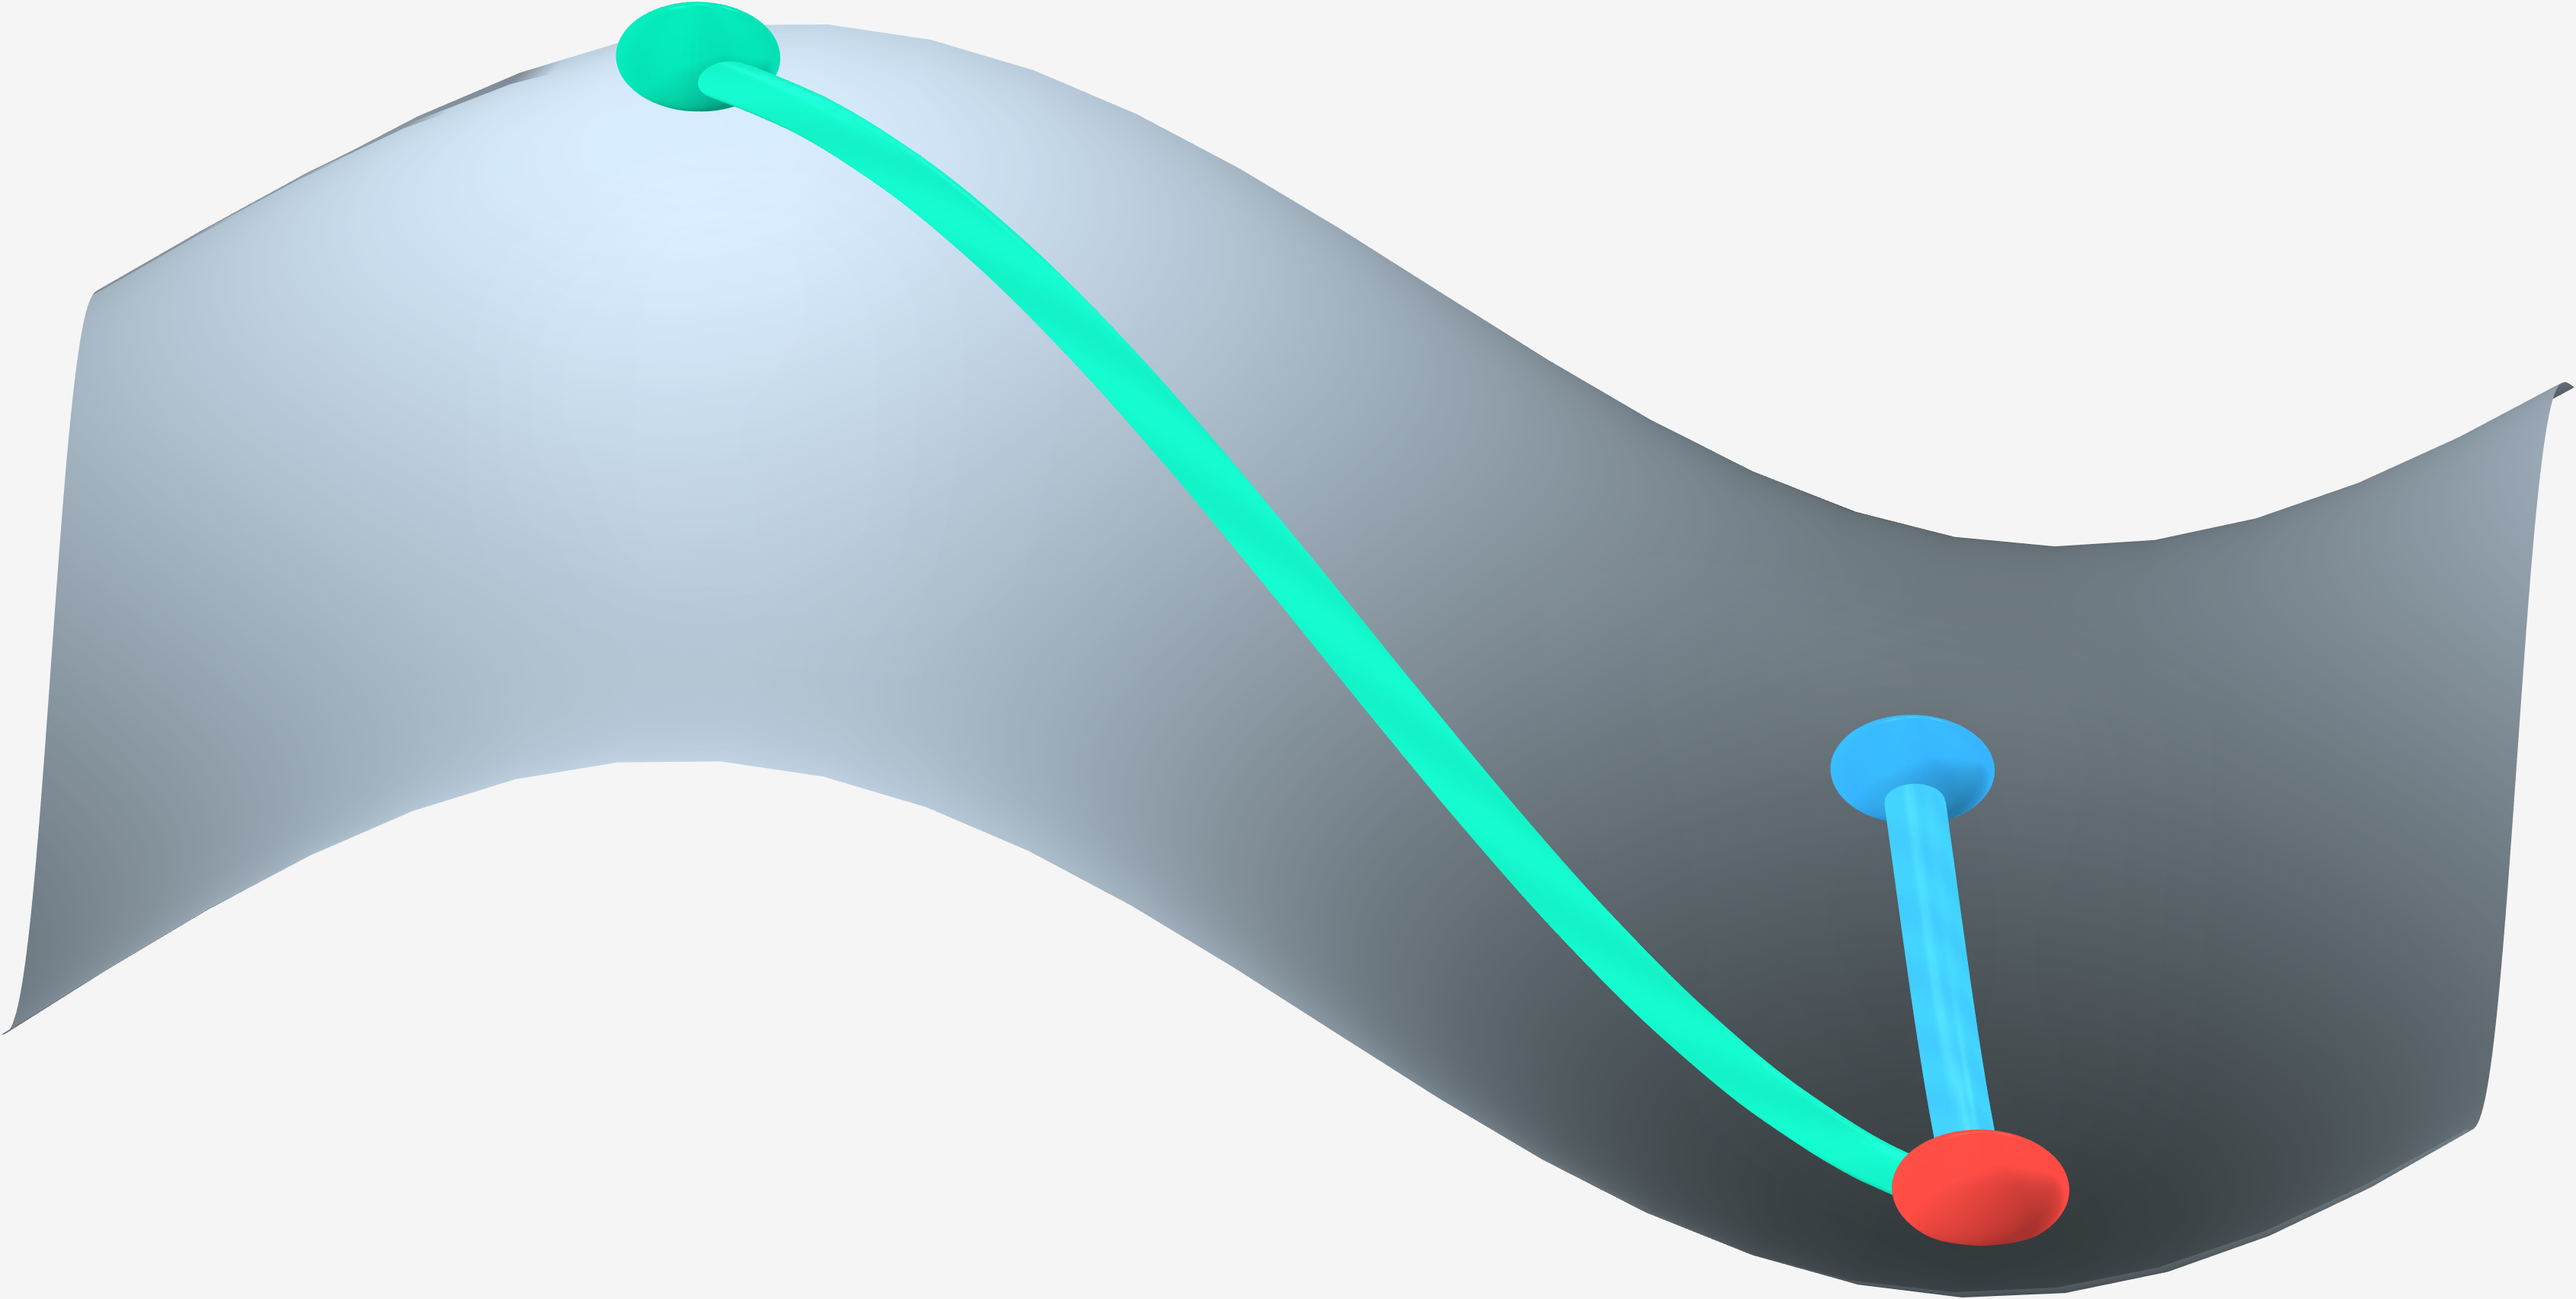
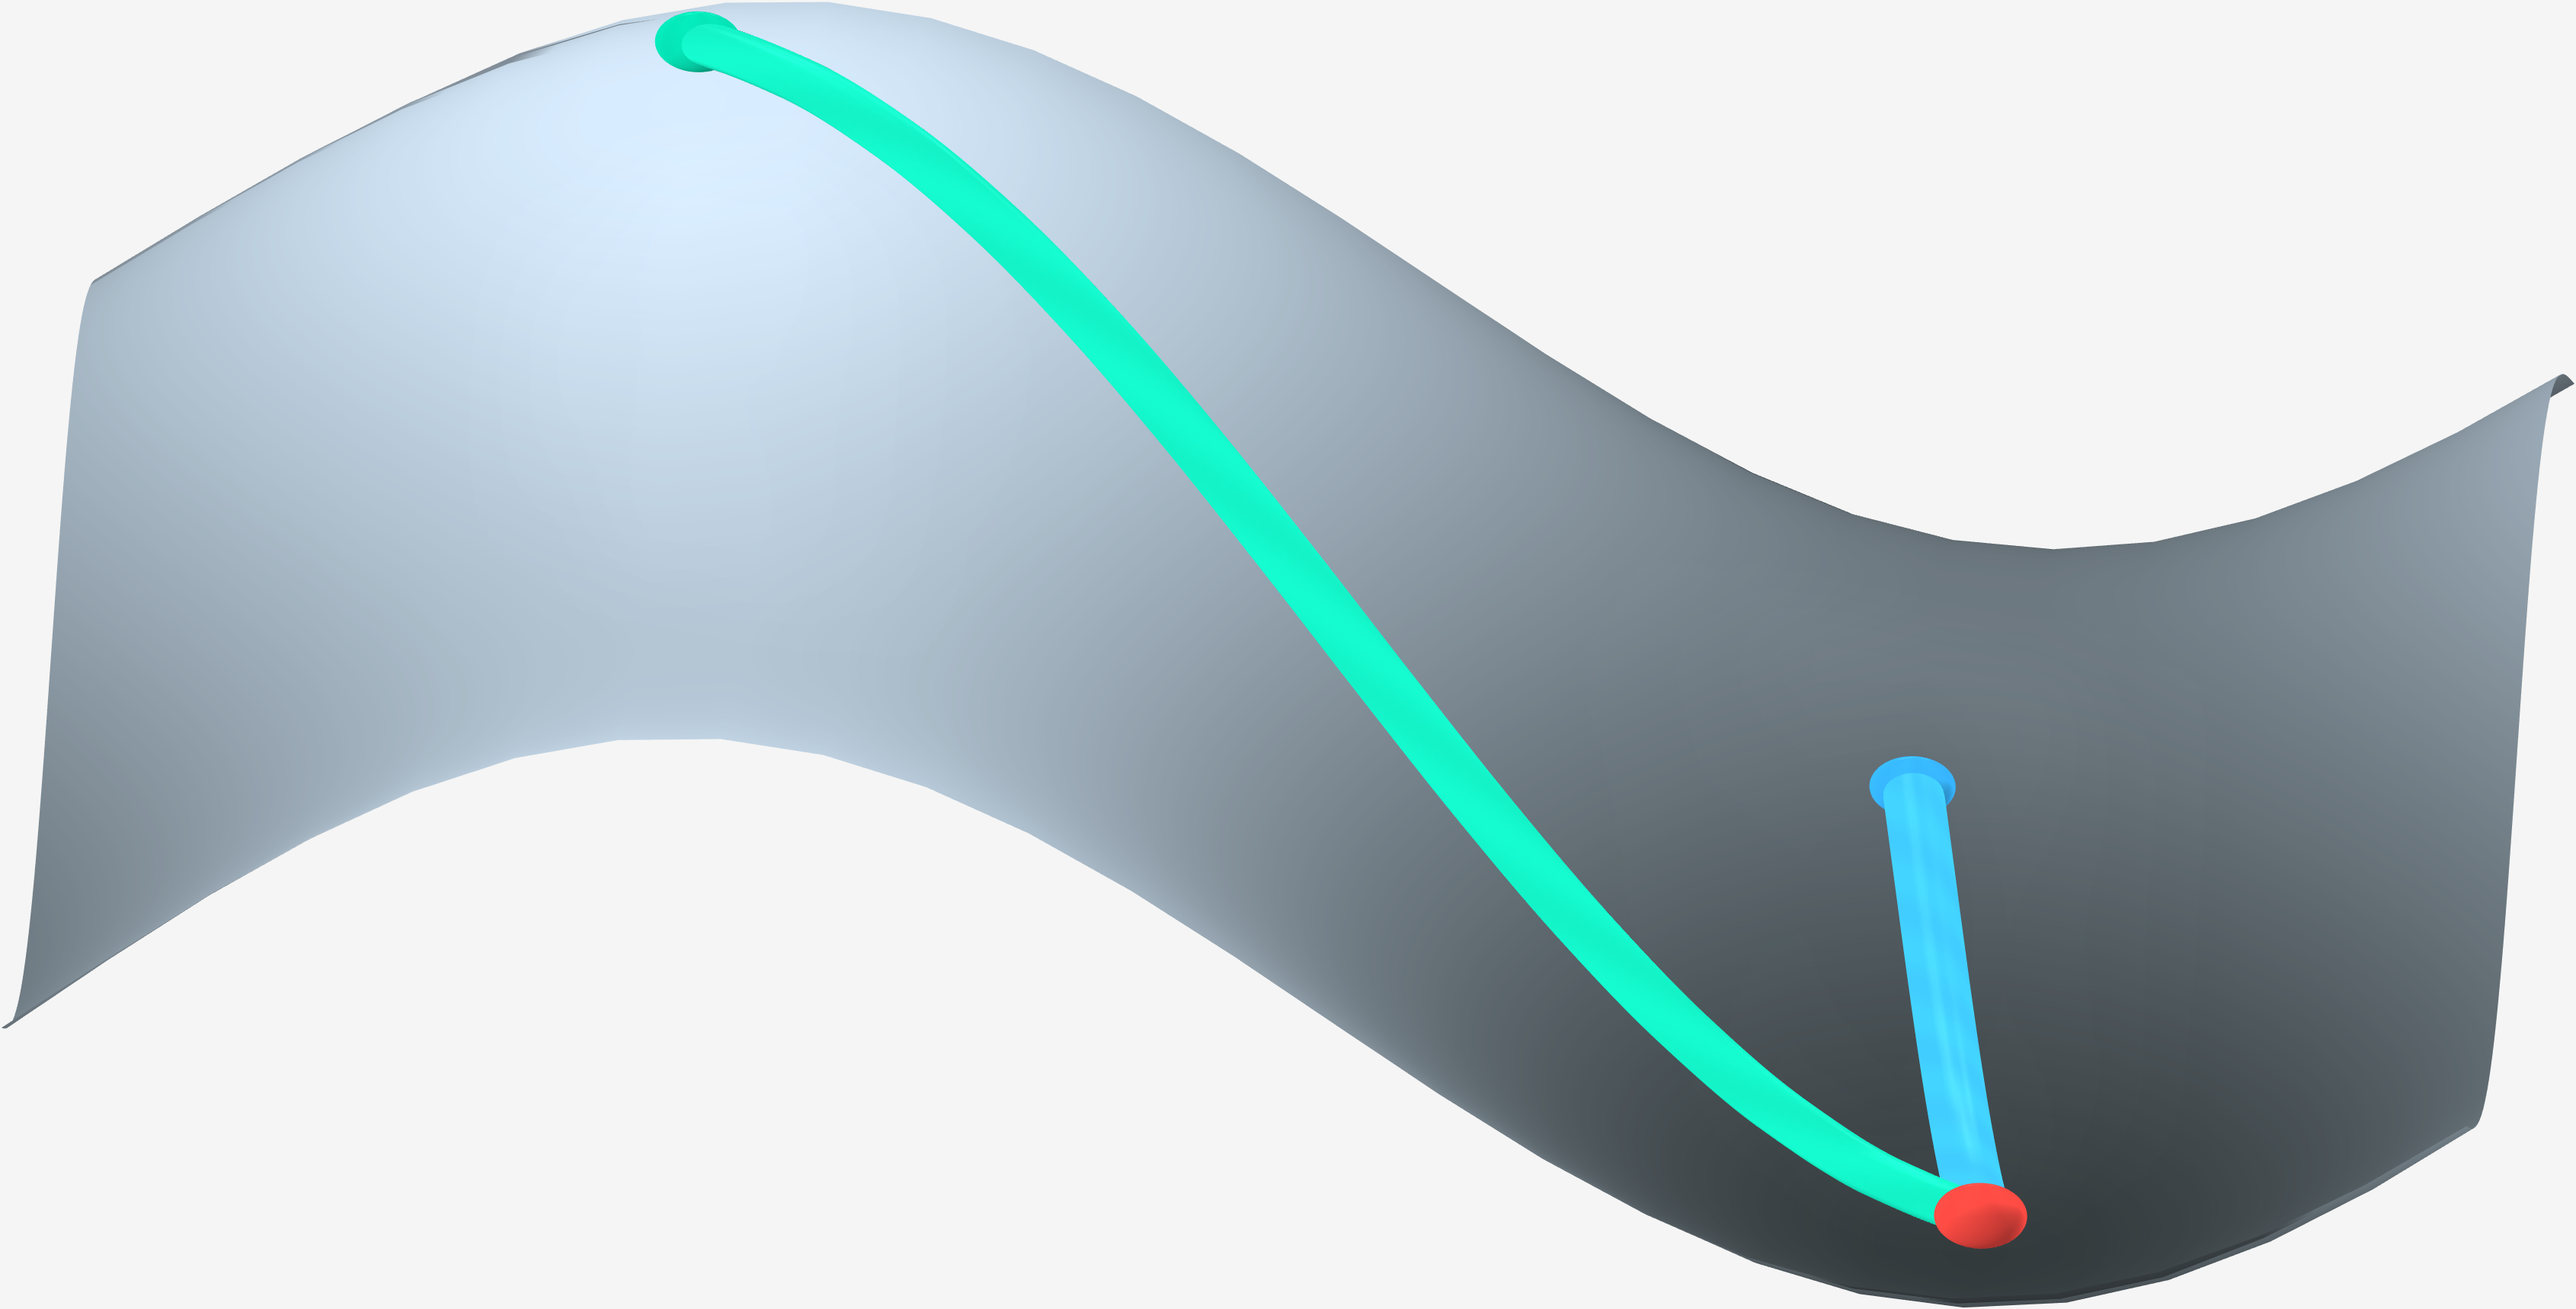
adjust ball center and radius

diff --git a/PEL3D.m b/PEL3D.m
@@ -137,7 +137,7 @@ marker_lift = 0.018 * z_span;
 trace_lift = 0.050 * z_span;
 marker_lift = 0.070 * z_span;
 rope_radius = 0.30;
-ball_radius = 0.80;
+ball_radius = 0.42;
 
 % Create two optimization traces on the surface
 n_trace = 420;
@@ -167,9 +167,12 @@ add_textured_rope(ax, trace2_path, rope_radius, [0.24 0.80 1.00]);
 mk1 = [0.00, 0.88, 0.70]; % teal
 mk2 = [0.20, 0.70, 1.00]; % cyan-blue
 mk3 = [1.00, 0.28, 0.25]; % red
-add_textured_ball(ax, [init_pt_1(1), init_pt_1(2), init_z_1 + marker_lift], ball_radius, mk1);
-add_textured_ball(ax, [init_pt_2(1), init_pt_2(2), init_z_2 + marker_lift], ball_radius, mk2);
-add_textured_ball(ax, [min_pt(1), min_pt(2), min_z + marker_lift], 1.08 * ball_radius, mk3);
+ball1_center = trace1_path(1, :); % align with rope 1 start centerline
+ball2_center = trace2_path(1, :); % align with rope 2 start centerline
+ball3_center = 0.5 * (trace1_path(end, :) + trace2_path(end, :)); % shared end center
+add_textured_ball(ax, ball1_center, ball_radius, mk1);
+add_textured_ball(ax, ball2_center, ball_radius, mk2);
+add_textured_ball(ax, ball3_center, 1.08 * ball_radius, mk3);
 
 hold(ax, "off");
 
